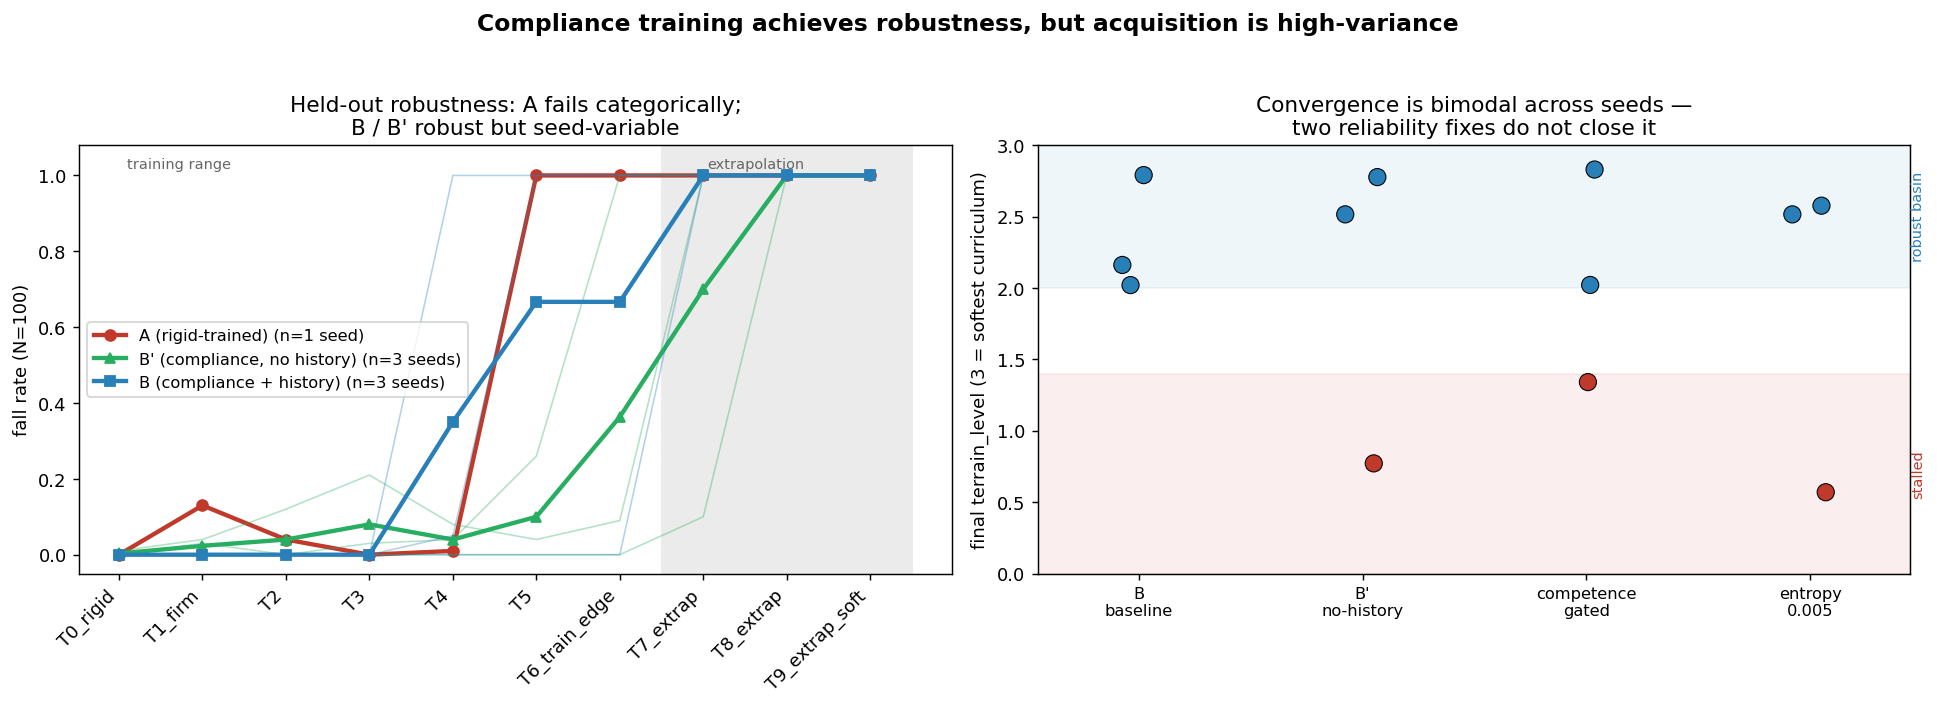
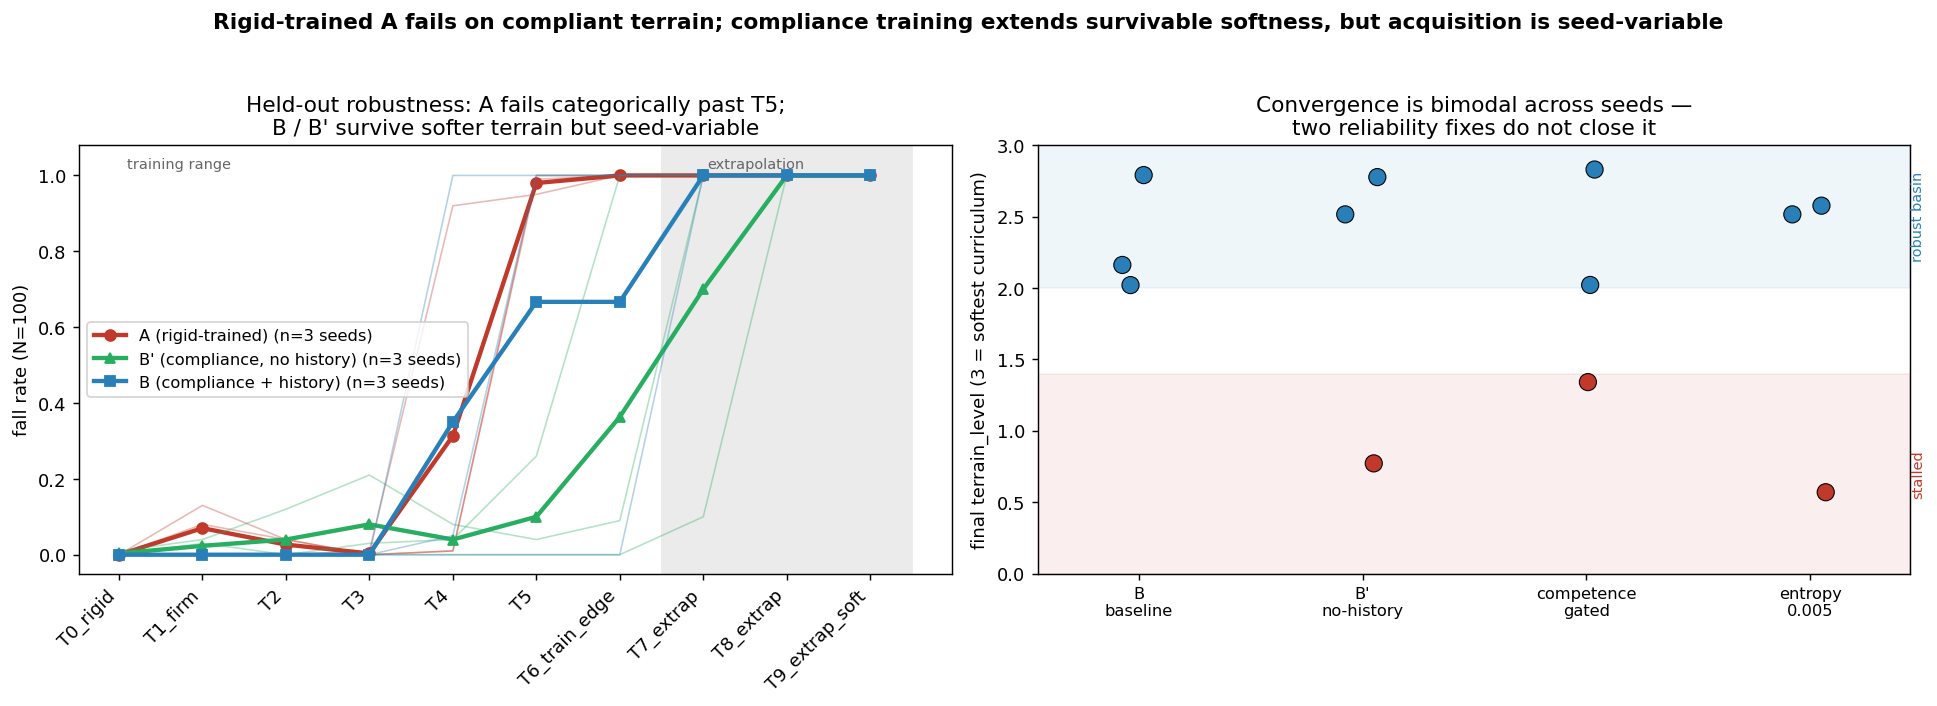
feat: multi-seed Policy A (clean 3-seed ablation) + review-ready results.md
Multi-seeded Policy A (was single-seed) to harden the rigid baseline.

Key correction: policy_a_v24 is produced by train_policy_v24.py, NOT the older
train_policy_a.py. An initial pass used the wrong (stale) script, which collapsed
7/8 seeds and produced a spurious 'A is 1/8 reliable' result — retracted. With the
correct script all 3 A seeds train normally (ep_len ~1000). Verified A/B/B' share
an identical recipe (log_std_init=-1.5, ent_coef=0, k_max=0.3, command curriculum,
PMTG) so only terrain + by-design obs differ. Deprecation header added to
train_policy_a.py to prevent recurrence.

Corrected 3-seed findings (results.md is authoritative):
- A: fast/efficient on rigid, fails categorically past T5-T6 (all seeds).
- No policy generalizes beyond training range (all fail T8-T9).
- Foot history (B vs B') gives no clear robustness benefit under multi-seeding
  (retracts 'history required for survival').
- Compliant-gait acquisition is seed-variable; rigid trains reliably.
- Main caveat: n=3 vs seed-std ~0.45 -> B-vs-B' not statistically distinguishable.

- evaluate.py: A_rigid now 3 seeds; regenerated multiseed CSV.
- results.md: full review-ready writeup; FINDINGS.md trimmed to defer to it.
- variance_plot.png: 3-seed A, honest titles.

diff --git a/analysis/plot_variance.py b/analysis/plot_variance.py
@@ -41,7 +41,7 @@ seed_curves("Bp_noh", C_BP, "B' (compliance, no history)", "^")
 seed_curves("B_compliance", C_B, "B (compliance + history)", "s")
 ax1.set_xticks(x); ax1.set_xticklabels(ORDER, rotation=45, ha="right")
 ax1.set_ylim(-0.05, 1.08); ax1.set_ylabel("fall rate (N=100)")
-ax1.set_title("Held-out robustness: A fails categorically;\nB / B' robust but seed-variable")
+ax1.set_title("Held-out robustness: A fails categorically past T5;\nB / B' survive softer terrain but seed-variable")
 ax1.legend(loc="center left", fontsize=9)
 ax1.annotate("training range", (0.1, 1.02), fontsize=8, color="0.4")
 ax1.annotate("extrapolation", (EXTRAP + 0.05, 1.02), fontsize=8, color="0.4")
@@ -70,8 +70,9 @@ ax2.set_ylim(0, 3.0); ax2.set_ylabel("final terrain_level (3 = softest curriculu
 ax2.set_title("Convergence is bimodal across seeds —\ntwo reliability fixes do not close it")
 ax2.margins(x=0.12)
 
-fig.suptitle("Compliance training achieves robustness, but acquisition is high-variance",
-             fontweight="bold", fontsize=13)
+fig.suptitle("Rigid-trained A fails on compliant terrain; compliance training extends "
+             "survivable softness, but acquisition is seed-variable",
+             fontweight="bold", fontsize=12)
 fig.tight_layout(rect=(0, 0, 1, 0.96))
 out = "analysis/variance_plot.png"
 fig.savefig(out, dpi=130, bbox_inches="tight")

diff --git a/evaluation/evaluate.py b/evaluation/evaluate.py
@@ -30,9 +30,11 @@ _MAX_STEPS = 1000
 _SEEDS = [0, 1, 2]   # seed 0 = original dir; seeds 1,2 = *_s1/_s2 multiseed dirs
 
 # name -> (obs_mode, checkpoint_dir_base, final_zip_name, seeds)
-# Policy A is single-seed (its result is categorical 0%/100% falls); B/B' use 3 seeds.
+# All three conditions use 3 seeds. Policy A's compliant-terrain failure is
+# categorical, but multi-seeding it confirms the rigid-terrain behaviour is
+# consistent and removes the "single-seed baseline" objection.
 POLICY_SPECS = {
-    "A_rigid":      ("A", "policy_a_v24", "policy_v24_final.zip",  [0]),
+    "A_rigid":      ("A", "policy_a_v24", "policy_v24_final.zip",  _SEEDS),
     "B_compliance": ("B", "policy_b",     "policy_b_final.zip",     _SEEDS),
     # obs-ablation: compliance-trained but 49D (no foot history)
     "Bp_noh":       ("A", "policy_b_noh", "policy_b_noh_final.zip", _SEEDS),

diff --git a/training/train_policy_a.py b/training/train_policy_a.py
@@ -1,6 +1,11 @@
 """
 Train Policy A: rigid terrain baseline.
 
+DEPRECATED — DO NOT USE FOR THE ABLATION. This is a stale, more-aggressive recipe
+(log_std_init=0, no command curriculum) that does NOT match Policy B and trains
+unreliably (collapses on most seeds). The canonical Policy A used in the paper is
+`train_policy_v24.py`, which shares B's recipe exactly. Kept only for history.
+
 Runs PPO with 128 parallel environments on flat rigid ground.
 Policy A has no terrain curriculum — it specialises for rigid terrain only,
 giving it the highest possible rigid-ground performance for comparison.
